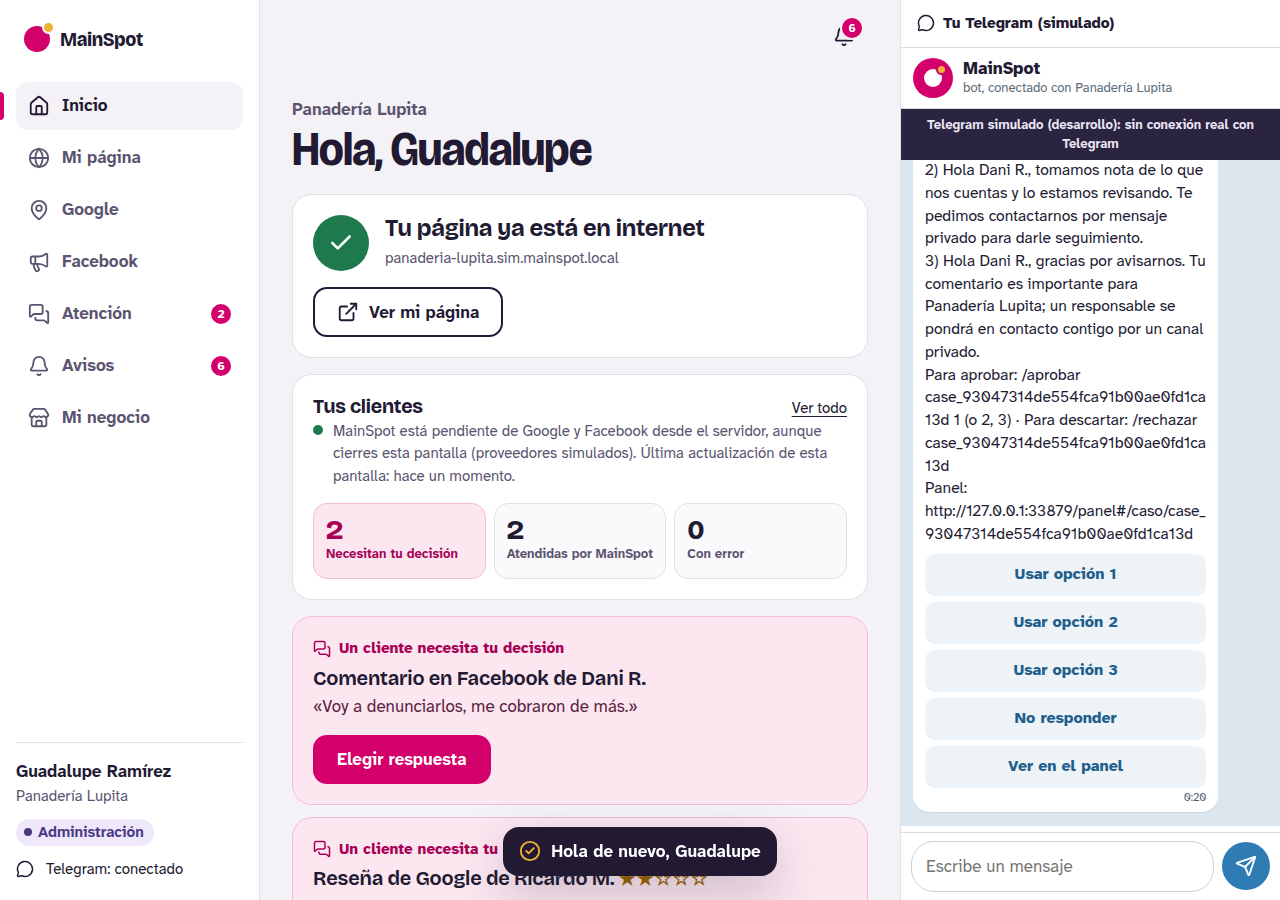
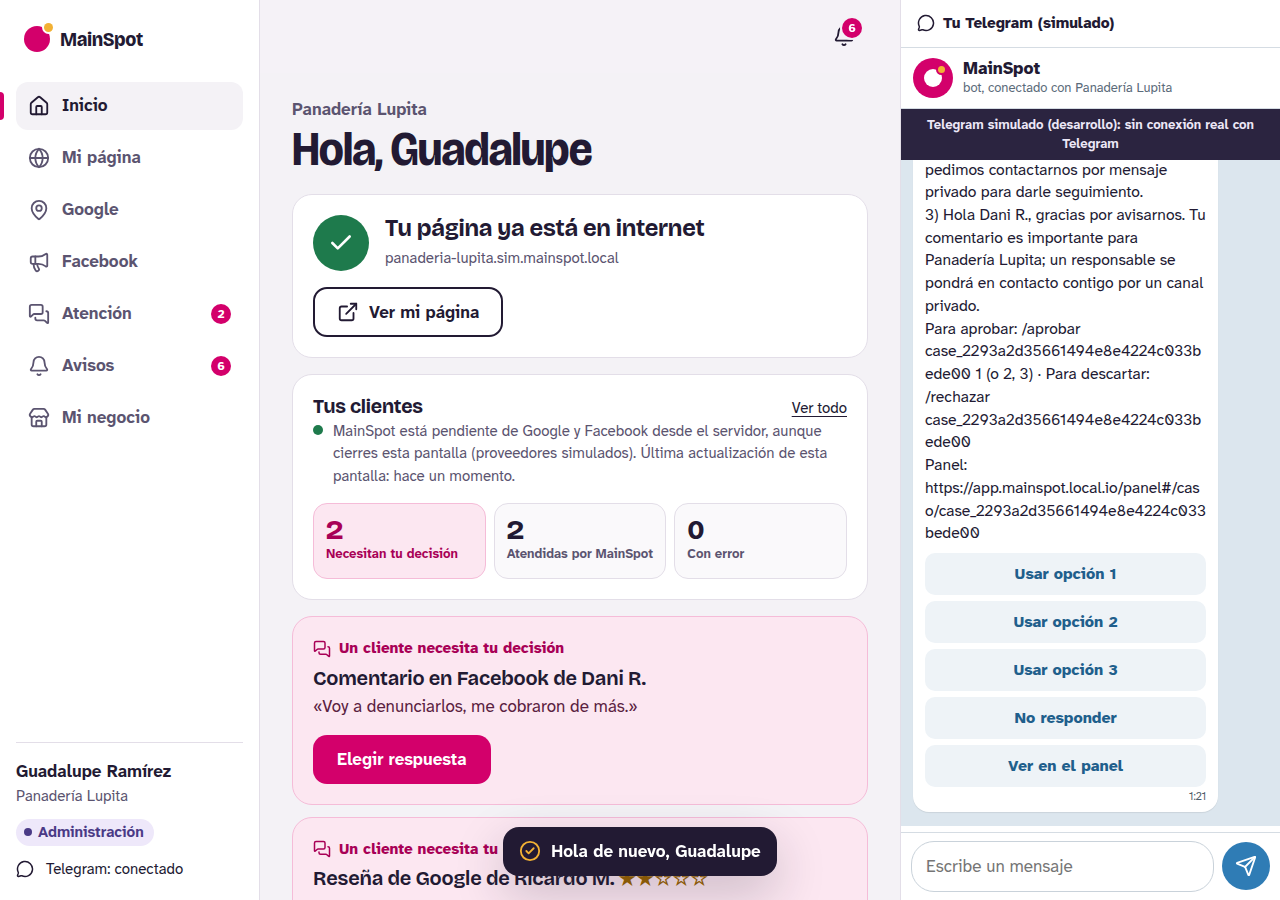
feat(dev): official HTTPS origin https://app.mainspot.local.io via LXC webserver proxy; browser E2E through the domain
- scripts/dev-domain-bootstrap.sh: one-time, idempotent bootstrap (hosts, mkcert cert in LXC, nginx vhost);
  scripts/dev-panel.sh only defaults PUBLIC_BASE_URL to the domain, no infra checks
- scripts/deploy/app.mainspot.local.io.conf: HTTP/1.1 vhost, proxy to host 10.209.99.1:3100, host-only
- tests/e2e/ui-e2e-03: E2E_BASE_URL (default the domain) + owned upstream E2E_UPSTREAM_PORT=3100,
  explicit failure when busy, Node trusts system CA, no ignoreHTTPSErrors
- evidence: bootstrap, ERR_NETWORK_CHANGED diagnosis (crash-looping foreign containers stopped with
  user approval), npm test 244/244, browser E2E 42/42 via HTTPS (5/5 consecutive runs)

Changed region(s): [[0.7188, 0.1867, 0.9375, 0.6222]]

diff --git a/tests/e2e/ui-e2e-03.test.ts b/tests/e2e/ui-e2e-03.test.ts
@@ -1,7 +1,13 @@
 /**
  * E2E DEV-E2E-03 — interfaz de Claude Design integrada, recorrida en un NAVEGADOR REAL (Chrome vía
- * playwright-core) contra el servidor real (`node src/api/server.ts`, worker en proceso), la CLI de
- * alta y PostgreSQL de pruebas (recreada por test-prep). No usa el prototipo file:// ni fixtures.
+ * playwright-core) por el dominio oficial de desarrollo https://app.mainspot.local.io (proxy HTTPS
+ * del LXC webserver, certificado de la CA local) contra el servidor real (`node src/api/server.ts`,
+ * worker en proceso), la CLI de alta y PostgreSQL de pruebas (recreada por test-prep).
+ * No usa el prototipo file://, ni fixtures, ni el puerto interno como atajo, ni ignora errores TLS.
+ *
+ * La prueba es dueña del upstream del proxy: arranca el servidor en E2E_UPSTREAM_PORT (3100) y
+ * falla de inmediato si ese puerto ya está ocupado (p. ej. scripts/dev-panel.sh en marcha).
+ * E2E_BASE_URL permite otro origen HTTPS; por defecto https://app.mainspot.local.io.
  *
  * Recorrido: invitación → contraseña → datos del negocio → primera página (vista previa →
  * aprobación → publicación sin 502) → Telegram simulado vinculado → recarga → tres teléfonos
@@ -19,12 +25,18 @@
 import { test, after } from 'node:test';
 import assert from 'node:assert/strict';
 import { spawn, execFileSync, execSync, type ChildProcess } from 'node:child_process';
-import { createServer, type AddressInfo } from 'node:net';
+import { createServer } from 'node:net';
 import { existsSync, mkdirSync, readdirSync, writeFileSync } from 'node:fs';
 import { homedir } from 'node:os';
+import tls from 'node:tls';
 import pg from 'pg';
 import { chromium, type Browser, type BrowserContext, type Page } from 'playwright-core';
 import { TEST_URL, SEED } from '../helpers/testdb.ts';
+
+const BASE = (process.env.E2E_BASE_URL ?? 'https://app.mainspot.local.io').replace(/\/$/, '');
+const UPSTREAM_PORT = Number(process.env.E2E_UPSTREAM_PORT ?? 3100);
+// Node confía en la misma CA local que el navegador (almacén del sistema), sin desactivar TLS.
+tls.setDefaultCACertificates([...tls.getCACertificates('default'), ...tls.getCACertificates('system')]);
 
 const transcript: string[] = [];
 function say(line: string): void {
@@ -70,31 +82,32 @@ function childEnv(extra: Record<string, string>): NodeJS.ProcessEnv {
   };
 }
 
-async function freePort(): Promise<number> {
-  return new Promise((resolve) => {
+/** El servidor de la prueba debe ser el único upstream del dominio: nunca se comparte ni se reemplaza otro. */
+async function assertUpstreamFree(port: number): Promise<void> {
+  await new Promise<void>((resolve, reject) => {
     const s = createServer();
-    s.listen(0, '127.0.0.1', () => {
-      const port = (s.address() as AddressInfo).port;
-      s.close(() => resolve(port));
-    });
+    s.once('error', (err: NodeJS.ErrnoException) => reject(err.code === 'EADDRINUSE'
+      ? new Error(`El upstream de ${BASE} (puerto ${port}) está ocupado, probablemente por scripts/dev-panel.sh. Detenlo antes del E2E de navegador (no se usa otro puerto ni localhost como atajo).`)
+      : err));
+    s.listen(port, () => s.close(() => resolve()));
   });
 }
 
-async function startServer(port: number): Promise<ChildProcess> {
+async function startServer(): Promise<ChildProcess> {
   const proc = spawn(process.execPath, ['src/api/server.ts'], {
-    env: childEnv({ PORT: String(port), ENGAGEMENT_WORKER: 'on', PUBLIC_BASE_URL: `http://127.0.0.1:${port}` }), stdio: ['ignore', 'ignore', 'inherit'],
+    env: childEnv({ PORT: String(UPSTREAM_PORT), ENGAGEMENT_WORKER: 'on', PUBLIC_BASE_URL: BASE }), stdio: ['ignore', 'ignore', 'inherit'],
   });
   children.add(proc);
   proc.once('exit', () => children.delete(proc));
-  for (let i = 0; i < 100; i += 1) {
+  for (let i = 0; i < 150; i += 1) {
     try {
-      if ((await fetch(`http://127.0.0.1:${port}/health`)).ok) return proc;
+      if ((await fetch(`${BASE}/health`)).ok) return proc; // a través del proxy HTTPS, con TLS verificado
     } catch {
       // aún arrancando
     }
     await new Promise((r) => setTimeout(r, 100));
   }
-  throw new Error('el servidor no arrancó');
+  throw new Error(`el servidor no respondió por ${BASE}`);
 }
 
 async function kill(proc: ChildProcess, signal: NodeJS.Signals): Promise<void> {
@@ -119,7 +132,7 @@ async function one<T extends pg.QueryResultRow>(sql: string, params: unknown[] =
   return (await pool.query<T>(sql, params)).rows[0];
 }
 
-let base = '';
+const base = BASE;
 async function newPage(width = 390, height = 844): Promise<{ ctx: BrowserContext; page: Page }> {
   const ctx = await browser!.newContext({ viewport: { width, height }, locale: 'es-MX' });
   const page = await ctx.newPage();
@@ -174,12 +187,14 @@ after(async () => {
   await pool.end();
   // El worker real recorre también los negocios semilla: se recrea la BD para los demás E2E.
   execFileSync(process.execPath, ['scripts/test-prep.ts'], { stdio: 'ignore' });
+  if (step === 0) return; // no arrancó (p. ej. upstream ocupado): no se sobrescribe la evidencia anterior
   try {
     mkdirSync('evidence', { recursive: true });
     const head = execSync('git rev-parse HEAD').toString().trim();
     const dirty = execSync('git status --porcelain -- src tests scripts').toString().trim() ? ' (+ cambios sin commit en src/tests/scripts)' : '';
     writeFileSync('evidence/e2e-dev-e2e-03.txt',
       `# E2E DEV-E2E-03 — navegador real + servidor real + PostgreSQL (run ${new Date().toISOString()})\n# HEAD: ${head}${dirty}\n` +
+      `# origen: ${BASE} (proxy HTTPS LXC webserver → upstream :${UPSTREAM_PORT}; TLS verificado, sin ignoreHTTPSErrors)\n` +
       `# navegador: ${chromePath()} (headless) · servidor: node src/api/server.ts (worker en proceso, ciclo 1 s)\n` +
       `# proveedores: simulated (Google, Meta, Telegram); ningún resultado es real\n# DB: mainspot_test (recreada por scripts/test-prep.ts)\n\n${transcript.join('\n')}\n\n# Fin de transcript\n`);
     console.log(`EVIDENCE_SAVED evidence/e2e-dev-e2e-03.txt (HEAD ${head})`);
@@ -189,11 +204,10 @@ after(async () => {
 });
 
 test('E2E DEV-E2E-03: interfaz de Claude Design en navegador contra servidor, worker y PostgreSQL reales', { timeout: 240_000 }, async () => {
-  const port = await freePort();
-  let server = await startServer(port);
-  base = `http://127.0.0.1:${port}`;
+  await assertUpstreamFree(UPSTREAM_PORT);
+  let server = await startServer();
   browser = await chromium.launch({ executablePath: chromePath(), headless: true });
-  say(`servidor real en ${base} · Chrome headless · worker en proceso [proveedores simulated]`);
+  say(`servidor real detrás de ${base} (upstream :${UPSTREAM_PORT}) · Chrome headless · worker en proceso [proveedores simulated]`);
 
   // ---------- Alta: invitación → contraseña → datos del negocio ----------
   say('\n-- FLOW-01: invitación de un solo uso y alta en la interfaz de Claude --');
@@ -419,7 +433,7 @@ test('E2E DEV-E2E-03: interfaz de Claude Design en navegador contra servidor, wo
   // ---------- Reinicio ----------
   say('\n-- Reinicio del servidor: estado persistente, sin duplicados --');
   await kill(server, 'SIGKILL');
-  server = await startServer(port);
+  server = await startServer();
   await page.reload();
   await go(page, '#/atencion');
   await page.locator('#case-list').waitFor();

diff --git a/README.md b/README.md
@@ -355,19 +355,23 @@ npm test                  # typecheck + unit + integration + smoke + e2e
 npm run db:up && npm run db:setup && npm run test:e2e
 # Escribe evidence/e2e-inc002-inc003.txt, evidence/e2e-inc004-006.txt, evidence/e2e-dev-e2e-02.txt
 # (servidor real, CLI de alta y worker independiente) y evidence/e2e-dev-e2e-03.txt
-# (interfaz de Claude en Chrome headless vía playwright-core contra servidor + PostgreSQL reales;
-#  usa /usr/bin/google-chrome o CHROME_PATH; EVIDENCE_SCREENSHOTS=1 guarda capturas en evidence/dev-e2e-03/)
+# (interfaz de Claude en Chrome headless vía playwright-core por https://app.mainspot.local.io contra
+#  servidor + PostgreSQL reales; usa /usr/bin/google-chrome o CHROME_PATH; EVIDENCE_SCREENSHOTS=1
+#  guarda capturas en evidence/dev-e2e-03/). E2E_BASE_URL cambia el origen; la prueba arranca su
+#  servidor como upstream del proxy (E2E_UPSTREAM_PORT=3100): detén scripts/dev-panel.sh mientras corre.
 ```
 
 ### DEV-E2E-03 — interfaz de Claude Design conectada al backend (desarrollo)
 
+Origen oficial de desarrollo: **https://app.mainspot.local.io** (panel `/panel`, invitaciones `/invitacion#<TOKEN>`). Lo sirve el nginx del LXC `webserver` (10.209.99.101) con certificado de la CA local, como proxy al proceso de MainSpot en el puerto interno 3100 del host. La instalación de hosts/proxy/TLS se hizo una sola vez con `scripts/dev-domain-bootstrap.sh` (evidencia `evidence/dev-domain-bootstrap.txt`); el arranque diario no la toca.
+
 ```bash
-scripts/dev-panel.sh                                              # PostgreSQL del compose en 127.0.0.1:55432, BD mainspot_dev,
-                                                                  # servidor + worker en http://localhost:3100 (proveedores simulados)
-scripts/dev-panel.sh invite "Panadería Lupita" lupita@example.com # imprime el enlace /invitacion#… (un solo uso, 72 h)
+scripts/dev-panel.sh                                              # PostgreSQL del compose en 127.0.0.1:55432 (BD mainspot_dev),
+                                                                  # servidor + worker detrás de https://app.mainspot.local.io
+scripts/dev-panel.sh invite "Panadería Lupita" lupita@example.com # imprime https://app.mainspot.local.io/invitacion#… (un solo uso, 72 h)
 ```
 
-Abre el enlace: invitación → contraseña → datos del negocio (crea la página y su primera versión con vista previa) → Telegram simulado → panel. Después se entra en `http://localhost:3100/` con correo + contraseña (sin id de cliente). La interfaz es la del prototipo `docs/ux/claude-design/deliverables` (referencia intacta) adaptada en `src/web/panel` para leer y escribir solo por la API (`/api/auth/*`, `/api/backoffice/*`); localStorage solo guarda qué avisos se leyeron. En desarrollo aparecen el simulador de reseñas/comentarios (Atención) y un chat de Telegram simulado que usa el mismo webhook que el bot real; ambos responden 404 en producción. Google, Meta y Telegram funcionan solo en modo **simulado**; los adaptadores reales no están certificados (`not_verified`).
+Abre el enlace: invitación → contraseña → datos del negocio (crea la página y su primera versión con vista previa) → Telegram simulado → panel. Después se entra en `https://app.mainspot.local.io/` con correo + contraseña (sin id de cliente). La interfaz es la del prototipo `docs/ux/claude-design/deliverables` (referencia intacta) adaptada en `src/web/panel` para leer y escribir solo por la API (`/api/auth/*`, `/api/backoffice/*`); localStorage solo guarda qué avisos se leyeron. En desarrollo aparecen el simulador de reseñas/comentarios (Atención) y un chat de Telegram simulado que usa el mismo webhook que el bot real; ambos responden 404 en producción. Google, Meta y Telegram funcionan solo en modo **simulado**; los adaptadores reales no están certificados (`not_verified`).
 
 Otros modos: `node scripts/invite-owner.ts …` con `npm start` (puerto 3000), y `ENGAGEMENT_WORKER=off npm start & node scripts/engagement-worker.ts` para el worker como proceso propio. Decisiones y shape de API: `docs/handoffs/e2e-parallel-2026-10-29/DECISION-LOG.md`.
 

diff --git a/docs/handoffs/e2e-parallel-2026-10-29/DECISION-LOG.md b/docs/handoffs/e2e-parallel-2026-10-29/DECISION-LOG.md
@@ -59,3 +59,12 @@ Este registro **no** es HDC/DEC ni pretende modificar documentos históricos. Un
 - **Otros ajustes:** carrera de doble confirmación ahora devuelve 409 sin crear dos vistas previas; «Tu equipo» en «Mi negocio» (user.manage) para crear Operación/Solo lectura; plan real (sin fechas de Trial inventadas).
 - **Evidencia:** `tests/e2e/ui-e2e-03.test.ts` (Chrome headless + servidor + worker + PostgreSQL reales, 42/42) → `evidence/e2e-dev-e2e-03.txt`; `tests/integration/website-first-page.test.ts` 3/3; `npm test` completo PASS. Arranque de desarrollo: `scripts/dev-panel.sh`.
 - **Pendiente / límites:** Google, Meta y Telegram solo simulados; publicaciones programadas de Facebook se publican con el tick existente (`POST /social/process-due`), sin temporizador; sin restaurar versiones ni recuperar contraseña desde la interfaz; el chat simulado de Telegram no conserva historial tras reiniciar el servidor (los casos y decisiones sí).
+
+## 2026-10-30 · SOL MAIN · Dominio local permanente https://app.mainspot.local.io
+
+- **Decisión:** el origen oficial de desarrollo es `https://app.mainspot.local.io` (panel `/panel`, invitaciones `/invitacion#<TOKEN>`). `/etc/hosts` del host → LXC `webserver` 10.209.99.101; nginx de ese LXC (sitio nuevo `app.mainspot.local.io.conf`, sin tocar los demás) termina TLS con un certificado de la CA local mkcert del host —ya confiable en el almacén del sistema y en NSS de Chrome— y hace proxy a `http://10.209.99.1:3100` (IP del host en `lxdbr0`, verificada desde el LXC; `127.0.0.1` del LXC no llega al host). Acceso al sitio limitado al host. `PUBLIC_BASE_URL` por defecto de `scripts/dev-panel.sh` = el dominio.
+- **Bootstrap único:** `scripts/dev-domain-bootstrap.sh` (idempotente; `--renew` reemite el certificado) es un comando aparte; `scripts/dev-panel.sh` no configura ni verifica hosts/proxy/TLS. Vhost versionado en `scripts/deploy/app.mainspot.local.io.conf`; la clave privada solo vive en el LXC.
+- **E2E de navegador:** `tests/e2e/ui-e2e-03.test.ts` usa `E2E_BASE_URL` (por defecto el dominio) y arranca su servidor como upstream del proxy en `E2E_UPSTREAM_PORT` (3100); si el puerto está ocupado falla con mensaje explícito (sin cambiar de puerto ni caer a localhost). Node confía en la CA del sistema con `tls.setDefaultCACertificates`; Chrome sin `ignoreHTTPSErrors`. Tests unitarios/integración y E2E sin navegador siguen en puertos internos.
+- **Inestabilidad del navegador por la red del host:** con el dominio, el E2E falló de forma intermitente (POST abortados, nginx 499; scripts del panel sin cargar). Causa medida con el NetLog de Chrome y `ip monitor`: 16 contenedores Docker ajenos de `multikrd-network` (`backend-platform-microservice-*`, `companies-onboarding-backend`) en bucle de reinicio (salida 1/3) creaban y borraban interfaces veth con IPv6 link-local cada pocos segundos. Chrome lo interpreta como cambio de red (`ERR_NETWORK_CHANGED`) y cancela conexiones y peticiones pendientes; por loopback casi no se notaba. Con autorización explícita del usuario se detuvieron (`docker stop`; conservan `restart: unless-stopped`, se reanudan con `docker start <nombre>`). Lista en `evidence/dev-domain-bootstrap.txt`.
+- **HTTP/1.1, no HTTP/2:** en nginx 1.18 el parámetro `http2` de `listen` se aplica a todo el socket `*:443` y cambiaba el protocolo de los demás sitios del LXC; además HTTP/2 cierra la sesión entera (todas las peticiones en curso) ante un cambio de red. El vhost queda en HTTP/1.1.
+- **Evidencia:** `evidence/dev-domain-bootstrap.txt`; `evidence/e2e-dev-e2e-03.txt` (origen HTTPS).

diff --git a/.omp/AGENTS.md b/.omp/AGENTS.md
@@ -10,6 +10,15 @@
 - `PUBLIC_BASE_URL=https://app.mainspot.local.io`; cualquier invitación/enlace generado debe respetar ese origen, sin guardar tokens activos en repositorios o issues.
 - Google, Meta y Telegram son simulados en desarrollo hasta verificar sus adaptadores e integraciones reales.
 
+## Estado instalado (bootstrap único del 2026-10-30)
+
+- Upstream: nginx del LXC `webserver` → `http://10.209.99.1:3100` (IP del host en `lxdbr0`; `127.0.0.1` dentro del LXC NO es el host). Vhost versionado en `scripts/deploy/app.mainspot.local.io.conf`; acceso limitado al host. Se sirve en HTTP/1.1 a propósito: no activar `http2` (en nginx 1.18 afecta a todos los sitios del socket `*:443`).
+- Solo ante fallo real: si Chrome falla de forma intermitente en el dominio (`net::ERR_NETWORK_CHANGED`, POST con 499 en nginx, scripts del panel sin cargar), la causa conocida son contenedores Docker en bucle de reinicio que crean y borran interfaces veth (`docker ps -a | grep Restarting`). Son servicios ajenos: pedir autorización antes de detenerlos.
+- TLS: certificado emitido por la CA local mkcert del host (ya confiable en el almacén del sistema y en NSS de Chrome/Playwright); la clave solo vive en el LXC. Node confía con `--use-system-ca` o `tls.setDefaultCACertificates` (lo hace el E2E).
+- Reinstalación en una máquina nueva: `scripts/dev-domain-bootstrap.sh` (comando aparte, nunca desde `scripts/dev-panel.sh`). Evidencia: `evidence/dev-domain-bootstrap.txt`.
+- Arranque diario: `scripts/dev-panel.sh` (servidor + worker en el puerto 3100, `PUBLIC_BASE_URL=https://app.mainspot.local.io`).
+- E2E de navegador (`tests/e2e/ui-e2e-03.test.ts`): `E2E_BASE_URL` (por defecto `https://app.mainspot.local.io`) y `E2E_UPSTREAM_PORT` (3100). La prueba arranca su propio servidor como upstream del proxy, así que necesita el puerto 3100 libre: detener `scripts/dev-panel.sh` mientras corre y volver a arrancarlo después. Si el puerto está ocupado falla con mensaje explícito, sin atajos.
+
 ## Política de ejecución
 
 **Configuración del dominio/proxy/certificados = trabajo único.** Hacer bootstrap y validación inicial una sola vez cuando se encargue. En sesiones siguientes de OMP **asumir esta infraestructura preparada y no hacer auditorías, reconfiguraciones ni comprobaciones preventivas de que esté configurada**. Iniciar y probar MainSpot directamente mediante `https://app.mainspot.local.io`; solo depurar proxy/CA/hosts ante fallo comprobado del dominio.
